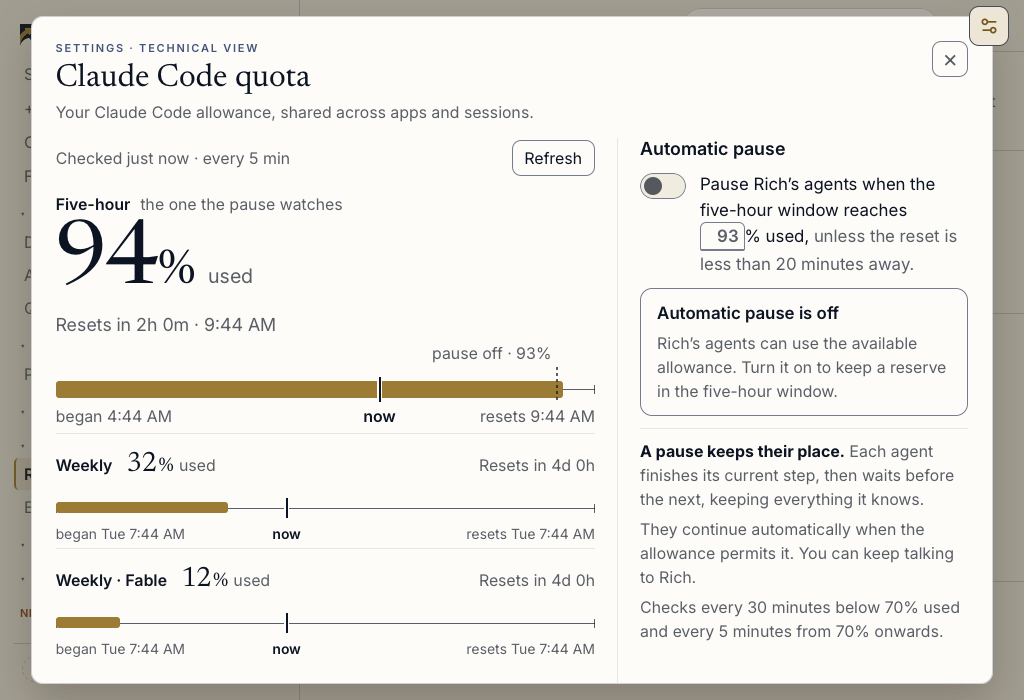
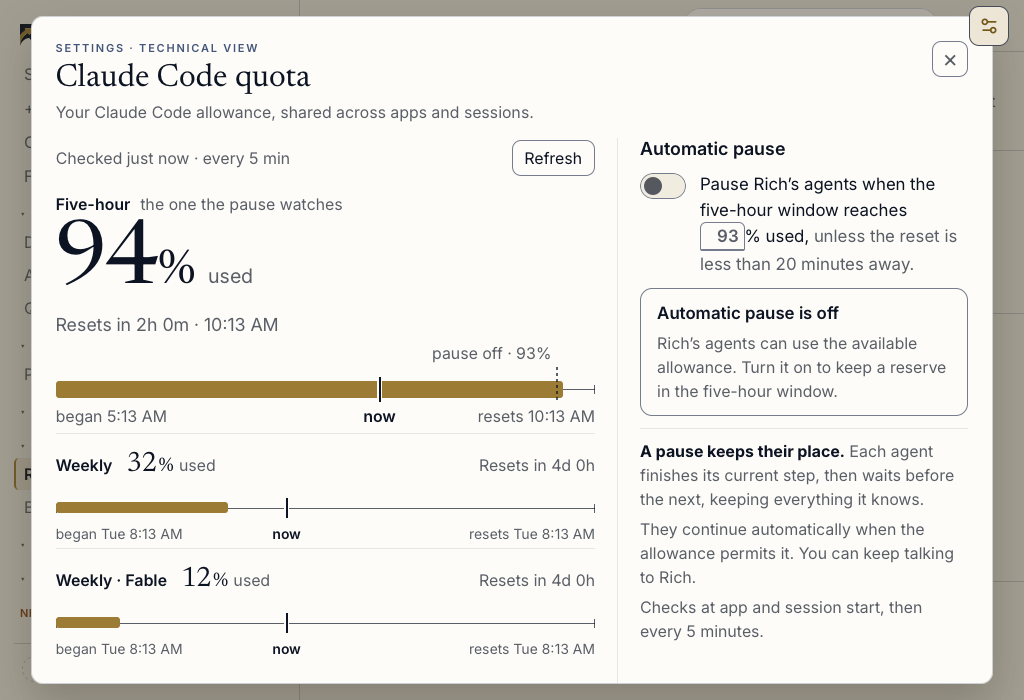
fix(desktop): check Claude quota at startup and every five minutes

diff --git a/richos/app/ui/quota.js b/richos/app/ui/quota.js
@@ -37,7 +37,7 @@
       </div>
       <div class="quota-boundary"><p><b>A pause keeps their place.</b> Each agent finishes its current step, then waits before the next, keeping everything it knows.</p>
         <p>They continue automatically when the allowance permits it. You can keep talking to Rich.</p>
-        <p>Checks every 30 minutes below 70% used and every 5 minutes from 70% onwards.</p></div>
+        <p>Checks at app and session start, then every 5 minutes.</p></div>
     </form></div></section>`;
   document.body.appendChild(sheet);
   const field = id => sheet.querySelector("#" + id);
@@ -198,7 +198,7 @@
       if (request === generation) view = next;
     } catch (_) {
       if (request !== generation) return;
-      view = { ...(view || { windows: [], checkedAt: null, refreshIntervalMs: 1800000, policyUnavailable: true, policy: { enabled: false, pausePercent: 93 } }), state: "unavailable", message: "Could not read Claude Code quota. Try refreshing again." };
+      view = { ...(view || { windows: [], checkedAt: null, refreshIntervalMs: 300000, policyUnavailable: true, policy: { enabled: false, pausePercent: 93 } }), state: "unavailable", message: "Could not read Claude Code quota. Try refreshing again." };
     } finally {
       if (request === generation) { busy = false; lastPoll = Date.now(); if (!sheet.hidden) render(); paintMenu(); }
     }

diff --git a/richos/app/ui/tests/quota.js b/richos/app/ui/tests/quota.js
@@ -142,13 +142,13 @@ async function main() {
     assertEqual(await page.locator("#quota-enabled").getAttribute("aria-checked"), "false");
     await page.close();
   });
-  await run.check("missing windows stay absent and low usage has a thirty minute cadence", async () => {
+  await run.check("missing windows stay absent and low usage keeps the five minute cadence", async () => {
     const page = await open("dark", {...quota, windows: [{...quota.windows[0], usedPercent: 35}]});
     await enableTechnical(page); await page.click("#set-quota-open");
     await page.waitForSelector(".quota-window");
     assertEqual(await page.locator("[role=meter]").count(), 1);
     assertEqual(await page.locator(".quota-absent").count(), 2);
-    assert((await page.locator("#quota-freshness").innerText()).includes("30 min"));
+    assert((await page.locator("#quota-freshness").innerText()).includes("5 min"));
     await page.close();
   });
   await run.check("paused conversation status is scoped and quota details require Technical view", async () => {

diff --git a/richos/app/ui/mock.js b/richos/app/ui/mock.js
@@ -1925,7 +1925,7 @@
     const admission = !quotaPolicy.enabled ? { state: "disabled" } : !window || remaining <= 0 ? { state: "unknown" }
       : high && remaining < 20 * 60000 ? { state: "ready" } : high ? { state: "held", resetsAt: window.resetsAt }
       : fixture.state === "fresh" ? { state: "ready" } : { state: "unknown" };
-    return { ...fixture, refreshIntervalMs: window?.usedPercent < 70 ? 30 * 60000 : 5 * 60000, policy: { ...quotaPolicy }, admission };
+    return { ...fixture, refreshIntervalMs: 5 * 60000, policy: { ...quotaPolicy }, admission };
   }
   window.RichBridge = {
     isMock: true,

diff --git a/richos/app/crates/richos-core/src/quota.rs b/richos/app/crates/richos-core/src/quota.rs
@@ -12,8 +12,7 @@ pub mod gate;
 pub mod holds;
 pub mod probe;
 
-pub const LOW_USAGE_REFRESH_MS: u64 = 30 * 60_000;
-pub const HIGH_USAGE_REFRESH_MS: u64 = 5 * 60_000;
+pub const REFRESH_INTERVAL_MS: u64 = 5 * 60_000;
 pub const RESET_EXEMPTION_MS: u64 = 20 * 60_000;
 pub const BACKOFF_MS: u64 = 600_000;
 
@@ -196,18 +195,6 @@ pub fn normalize(response: &Value) -> Result<Vec<Window>, ReadError> {
     }
 }
 
-fn refresh_interval(windows: &[Window]) -> u64 {
-    if windows
-        .iter()
-        .find(|w| w.id == "five_hour")
-        .is_some_and(|w| w.used_percent < 70.0)
-    {
-        LOW_USAGE_REFRESH_MS
-    } else {
-        HIGH_USAGE_REFRESH_MS
-    }
-}
-
 pub trait Source: Send {
     fn read(&mut self, bin: &Path, cwd: &Path) -> Result<Vec<Window>, ReadError>;
     fn disconnect(&mut self) {}
@@ -222,7 +209,7 @@ struct Snapshot {
 }
 impl Snapshot {
     fn view(&self, policy: Policy, now: u64) -> View {
-        let interval = refresh_interval(&self.windows);
+        let interval = REFRESH_INTERVAL_MS;
         let expired = self
             .windows
             .iter()
@@ -296,6 +283,8 @@ pub struct Service {
     control: std::sync::Arc<probe::Control>,
     publication: Mutex<()>,
     connecting: std::sync::atomic::AtomicBool,
+    refresh_requested: Mutex<bool>,
+    refresh_wake: std::sync::Condvar,
 }
 impl Service {
     pub fn open(data_dir: &Path) -> io::Result<Self> {
@@ -319,6 +308,8 @@ impl Service {
             control,
             publication: Mutex::new(()),
             connecting: std::sync::atomic::AtomicBool::new(false),
+            refresh_requested: Mutex::new(true),
+            refresh_wake: std::sync::Condvar::new(),
         };
         service.publish()?;
         Ok(service)
@@ -332,6 +323,20 @@ impl Service {
     }
     pub fn view(&self) -> View {
         self.view_at(crate::util::now_millis())
+    }
+    /// Wake the desktop reader at a new-session boundary without blocking the
+    /// session's launch or Stop controls on provider I/O. Bursts coalesce.
+    pub fn request_refresh(&self) {
+        *self.refresh_requested.lock().unwrap() = true;
+        self.refresh_wake.notify_one();
+    }
+    /// The desktop monitor consumes this signal before applying the normal TTL.
+    /// Startup begins signaled, even when automatic pausing is disabled.
+    pub fn wait_for_refresh(&self, timeout: std::time::Duration) -> bool {
+        let (mut requested, _) = self.refresh_wake.wait_timeout_while(
+            self.refresh_requested.lock().unwrap(), timeout, |requested| !*requested,
+        ).unwrap();
+        std::mem::take(&mut *requested)
     }
     fn view_at(&self, now: u64) -> View {
         self.snapshot
@@ -414,6 +419,7 @@ impl Service {
         self.source.lock().unwrap().disconnect();
         *self.snapshot.lock().unwrap() = Snapshot::default();
         let _ = self.publish();
+        self.request_refresh();
     }
     pub fn is_shutdown(&self) -> bool {
         self.control.stopped()
@@ -524,14 +530,15 @@ mod tests {
         );
     }
     #[test]
-    fn adaptive_polling_and_reset_deadline() {
-        for (used, interval) in [(69.99, LOW_USAGE_REFRESH_MS), (70., HIGH_USAGE_REFRESH_MS)] {
+    fn five_minute_polling_at_every_usage_level_and_reset_deadline() {
+        for used in [0., 69.99, 70., 93., 100.] {
+            let interval = 300_000;
             let s = snapshot(used, 18_000_000);
             assert_eq!(s.view(policy(), NOW).next_check_at, Some(NOW + interval));
             assert_eq!(s.view(policy(), NOW + interval - 1).state, State::Fresh);
             assert_eq!(
-                s.view(policy(), NOW + interval).admission,
-                Admission::Unknown
+                s.view(policy(), NOW + interval).state,
+                State::Stale
             );
         }
         assert_eq!(
@@ -588,6 +595,49 @@ mod tests {
             self.calls.fetch_add(1, std::sync::atomic::Ordering::SeqCst);
             self.result.clone()
         }
+    }
+    #[test]
+    fn startup_and_session_signals_refresh_without_waiting_for_the_interval() {
+        use std::time::Duration;
+        use std::sync::atomic::Ordering;
+        let dir = Scratch::new();
+        let service = std::sync::Arc::new(Service::open(dir.path()).unwrap());
+        let calls = std::sync::Arc::new(std::sync::atomic::AtomicUsize::new(0));
+        let mut windows = snapshot(20., 3_600_000).windows;
+        windows[0].resets_at = Some(crate::util::now_millis() + 3_600_000);
+        *service.source.lock().unwrap() = Box::new(FakeSource { calls: calls.clone(), result: Ok(windows) });
+        assert!(!service.view().policy.enabled);
+        assert!(service.wait_for_refresh(Duration::ZERO), "startup requests a read even with pause off");
+        service.refresh(Path::new("unused"), true);
+        assert_eq!(calls.load(Ordering::SeqCst), 1);
+
+        // The reading is fresh but outside the short duplicate-request cooldown.
+        service.snapshot.lock().unwrap().checked_at = Some(crate::util::now_millis() - 10_000);
+        service.refresh(Path::new("unused"), false);
+        assert_eq!(calls.load(Ordering::SeqCst), 1, "ordinary polling still uses the cache");
+        let (tx, rx) = std::sync::mpsc::channel();
+        let reader = service.clone();
+        let thread = std::thread::spawn(move || {
+            let force = reader.wait_for_refresh(Duration::from_secs(30));
+            reader.refresh(Path::new("unused"), force);
+            tx.send(force).unwrap();
+        });
+        service.request_refresh();
+        assert!(rx.recv_timeout(Duration::from_secs(2)).unwrap(), "session start wakes the sleeping monitor");
+        thread.join().unwrap();
+        assert_eq!(calls.load(Ordering::SeqCst), 2, "session start bypasses the five-minute cache");
+        service.request_refresh(); service.request_refresh();
+        let force = service.wait_for_refresh(Duration::ZERO);
+        assert!(force);
+        service.refresh(Path::new("unused"), force);
+        assert_eq!(calls.load(Ordering::SeqCst), 2, "simultaneous sessions share the just-completed read");
+        assert!(!service.wait_for_refresh(Duration::ZERO));
+        service.set_connecting(true);
+        service.wait_for_refresh(Duration::ZERO);
+        service.set_connecting(false);
+        assert!(service.wait_for_refresh(Duration::ZERO), "sign-in completion wakes the reader");
+        service.refresh(Path::new("unused"), true);
+        assert_eq!(calls.load(Ordering::SeqCst), 3);
     }
     #[test]
     fn cache_failure_backoff_policy_persistence_and_account_invalidation() {

diff --git a/richos/app/src-tauri/src/main.rs b/richos/app/src-tauri/src/main.rs
@@ -284,6 +284,7 @@ impl richos_core::work_host::WorkNotifier for WorkNotice {
 /// That is the same shape as the `lease_ready` snapshot fixed earlier the same day: an answer
 /// cached before the thing it describes existed. `run_setup` writes both cells.
 struct EngineLeaseFactory {
+    quota: Arc<richos_core::quota::Service>,
     permissions: Arc<richos_core::permissions::PermissionDesk>,
     claude_bin: Arc<Mutex<PathBuf>>,
     engine_dir: Arc<Mutex<PathBuf>>,
@@ -340,6 +341,7 @@ impl LeaseFactory for EngineLeaseFactory {
     /// copying them cannot diverge from anything.
     fn duplicate(&self) -> Option<Box<dyn LeaseFactory>> {
         Some(Box::new(EngineLeaseFactory {
+            quota: self.quota.clone(),
             permissions: self.permissions.clone(),
             claude_bin: self.claude_bin.clone(),
             engine_dir: self.engine_dir.clone(),
@@ -416,6 +418,7 @@ impl LeaseFactory for EngineLeaseFactory {
         profile.permissions = self.permissions.clone();
         let bridge = richos_core::ecs::EcsBridge::new(&runtime.python, &dir, &self.data_dir.join("ecs"))
             .map_err(|e| CognitionError::Io(e.to_string()))?;
+        self.quota.request_refresh();
         let cog = richos_core::native::NativeCognition::start_work_lease(&bin, &doctrine, &skills, &executable, bridge, profile)?;
         Ok(Box::new(cog))
     }
@@ -483,6 +486,7 @@ impl EngineLeaseFactory {
         profile.permissions = self.permissions.clone();
         let bridge = richos_core::ecs::EcsBridge::new(&runtime.python, &dir, &self.data_dir.join("ecs"))
             .map_err(|e| CognitionError::Io(e.to_string()))?;
+        self.quota.request_refresh();
         let cog = NativeCognition::start_with_engine(&bin, &doctrine, &skills, &executable, bridge, profile, control)?;
         Ok(Box::new(cog))
     }
@@ -2683,6 +2687,22 @@ fn main() {
             // + retry (or a crash recovery attempt) has a real respawn path rather than none.
             let permissions = Arc::new(richos_core::permissions::PermissionDesk::default());
             let quota = Arc::new(richos_core::quota::Service::open(&data_dir)?);
+            // Read immediately at startup, regardless of the pause switch. Session
+            // starts and account changes wake this same reader. Otherwise its cache
+            // enforces five-minute polling, with reset deadlines and error backoff.
+            let quota_weak = Arc::downgrade(&quota);
+            let quota_bin = claude_bin_cell.clone();
+            std::thread::spawn(move || {
+                let mut wait = std::time::Duration::ZERO;
+                loop {
+                    let Some(quota) = quota_weak.upgrade() else { break };
+                    let force = quota.wait_for_refresh(wait);
+                    if quota.is_shutdown() { break; }
+                    let bin = quota_bin.lock().unwrap().clone();
+                    quota.refresh(&bin, force);
+                    wait = std::time::Duration::from_secs(1);
+                }
+            });
             // Whether THIS launch was told which engine to use. `EnvEngineDir` and
             // `EnvEngineRoot` are the only two sources that are a statement rather than a
             // search (`engine.rs` candidates 1 and 2).
@@ -2691,6 +2711,7 @@ fn main() {
                 Some(engine::EngineSource::EnvEngineDir) | Some(engine::EngineSource::EnvEngineRoot)
             );
             let lease_factory = || EngineLeaseFactory {
+                quota: quota.clone(),
                 permissions: permissions.clone(),
                 claude_bin: Arc::clone(&claude_bin_cell),
                 engine_dir: Arc::clone(&engine_cell),
@@ -3187,19 +3208,6 @@ fn main() {
             // Past it there is a window, the app owns its own surfaces, and a modal system
             // alert raised by a background thread that panicked would be an interruption
             // rather than a rescue. The log keeps taking everything either way.
-            // This monitor belongs to the desktop app. It spends no model turn and
-            // exits when the app releases the service. Refresh has its own TTL/backoff.
-            let quota_weak = Arc::downgrade(&quota);
-            let quota_bin = claude_bin_cell.clone();
-            std::thread::spawn(move || loop {
-                std::thread::sleep(std::time::Duration::from_secs(1));
-                let Some(quota) = quota_weak.upgrade() else { break };
-                if quota.is_shutdown() { break; }
-                if quota.view().policy.enabled {
-                    let bin = quota_bin.lock().unwrap().clone();
-                    quota.refresh(&bin, false);
-                }
-            });
             startup_alert::disarm();
             Ok(())
         })
@@ -4956,6 +4964,7 @@ fn run_setup(app: tauri::AppHandle, state: State<AppState>) -> Result<serde_json
     spine.retire_idle_lease()?;
     let installed = setup_view::run(&app, Some(&selected), &state.engine_dir);
     *state.claude_bin.lock().map_err(|_| "The connection settings could not be updated. Please reopen RichOS.")? = resolve_claude_bin();
+    state.quota.disconnect(); // Recheck after installation or a changed Claude binary.
     let engine = state.engine_dir.lock().unwrap().clone();
     spine.clear_memory_wiring();
     let wired = memory::wire_company_memory(&mut spine, &state.loro_provenance, &registry, &engine);

diff --git a/docs/verification/claude-quota-round14-2026-09-25/README.md b/docs/verification/claude-quota-round14-2026-09-25/README.md
@@ -20,9 +20,8 @@ now" disables automatic pausing. A failed refresh retains old figures and respec
 the existing ten-minute retry backoff.
 
 The five-hour rule remains: default 93% used; do not hold when reset is strictly
-less than 20 minutes away. Exactly 20 minutes still holds. Refresh every 30 minutes
-below 70% used and every five minutes at or above 70%. Known reset deadlines can
-bring a refresh forward. Ordinary conversation remains available.
+less than 20 minutes away. Exactly 20 minutes still holds. Refresh every five minutes
+at every usage level. Known reset deadlines can bring a refresh forward. Ordinary conversation remains available.
 
 ## Observed pause state
 
@@ -88,3 +87,17 @@ process-lock observation and renderer verification, not a five-hour live run.
 - [Light, holding three agents](holding-light.png)
 - [Dark, minimum desktop window](minimum-dark.png)
 - [Light, minimum desktop window](minimum-light.png)
+
+The follow-up desktop change fixes polling at five minutes throughout the usage
+range and requests a check immediately at app startup and each new foreground or
+background Claude session, including replacement leases. The monitor runs even
+when automatic pausing is off. A session-start signal wakes the shared reader
+without blocking session launch or Stop controls on provider I/O. Concurrent starts
+share an in-flight or just-completed reading through the existing five-second
+cooldown. Failure backoff still applies. Sign-in completion and setup changes also
+wake the reader after clearing the old account or binary's cache.
+
+The engine quota watcher and private HQ rulings page were not changed.
+
+Follow-up verification: 19 targeted quota Rust tests, 13 WebKit quota checks and
+the desktop Cargo build check passed.
